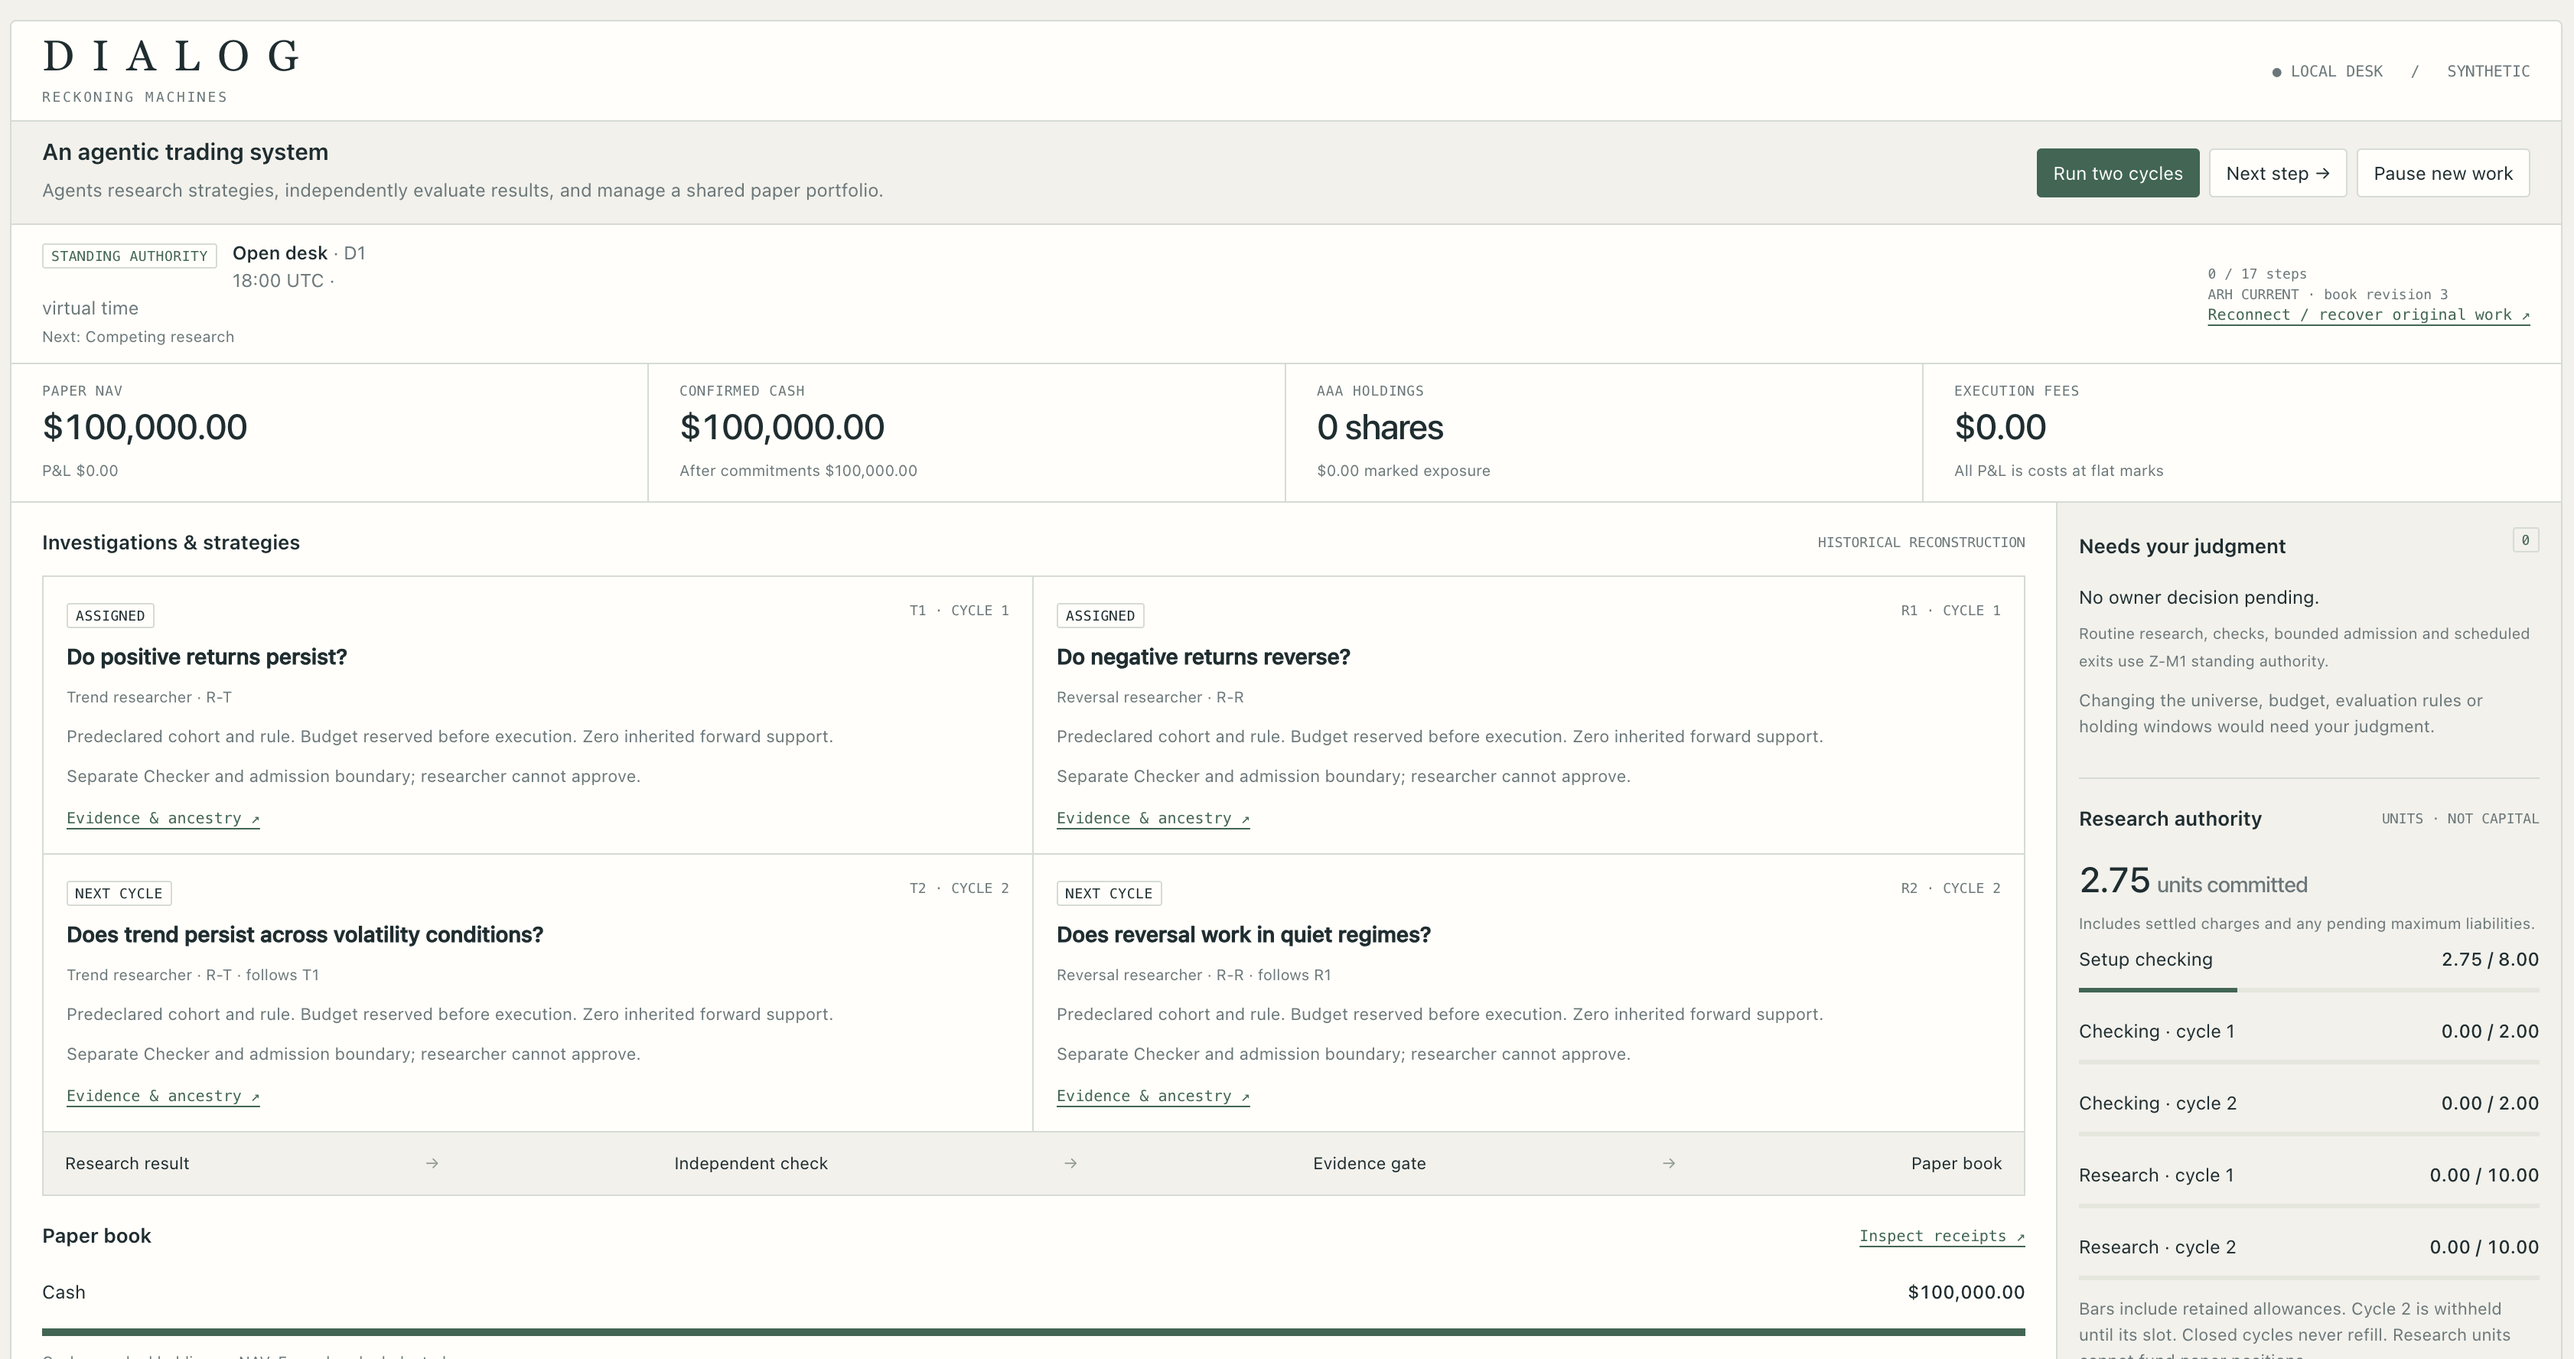
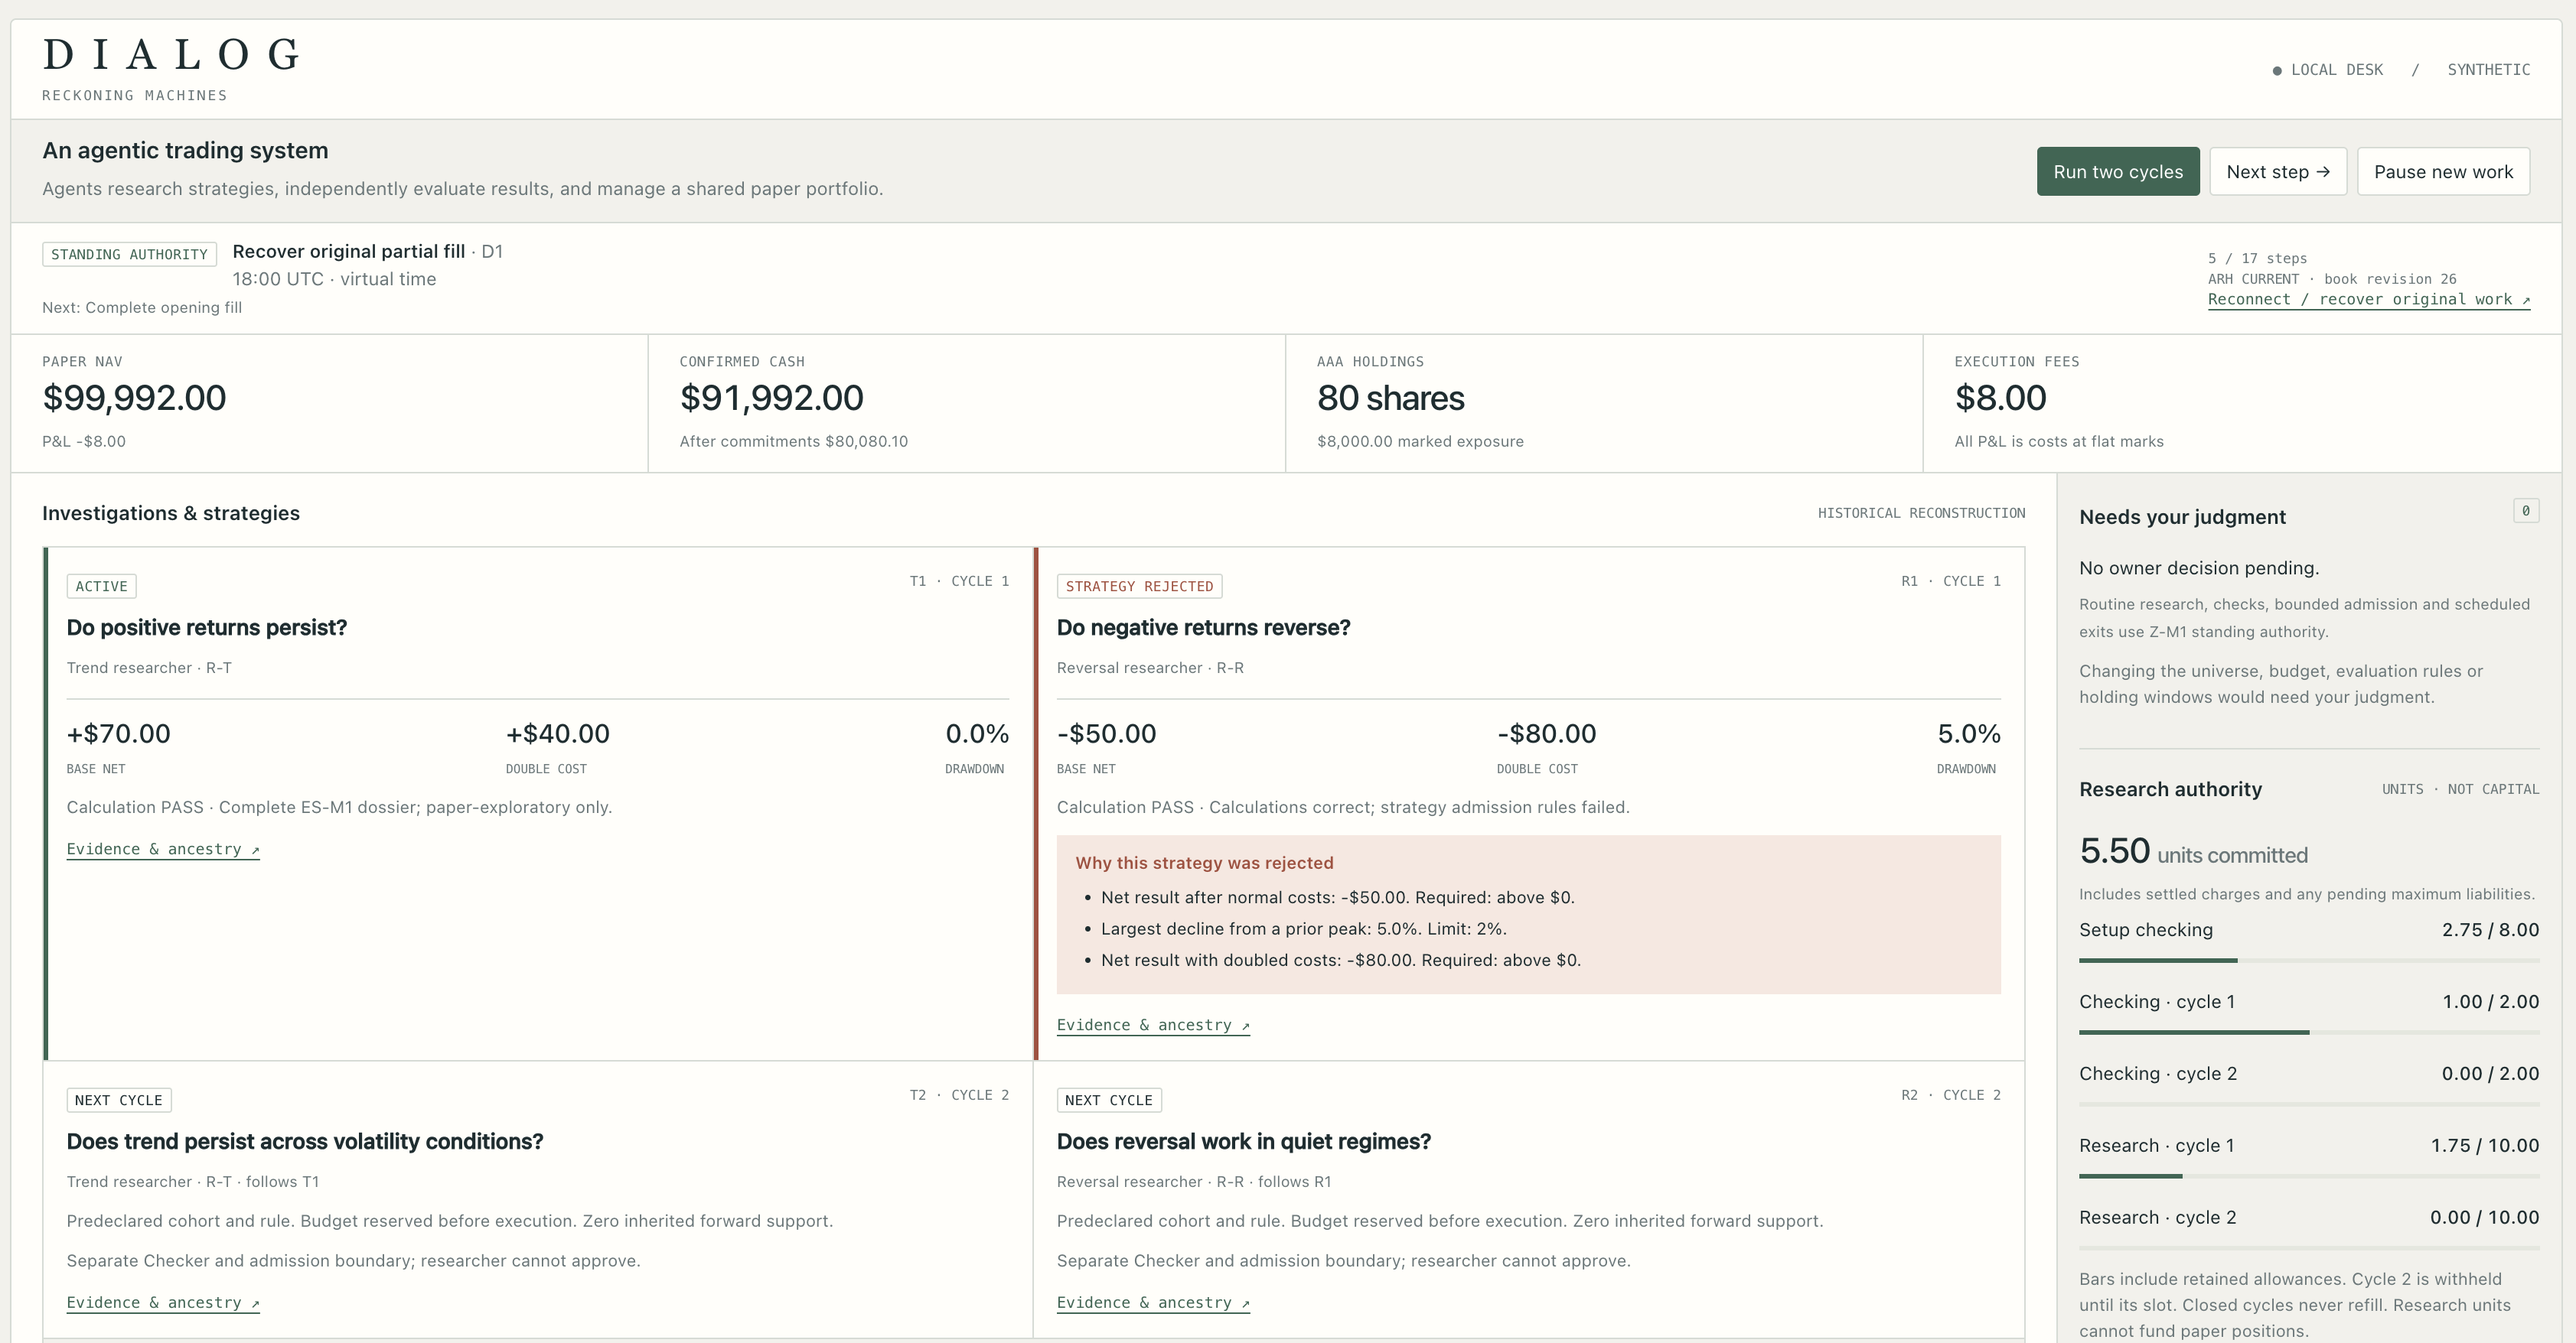
ARH card plate: Dialog mid-run, with an active and a rejected strategy

diff --git a/index.html b/index.html
@@ -98,7 +98,7 @@
                         <figure class="plate plate-arh">
                             <div class="plate-window">
                                 <a href="./dialog-workspace.png" target="_blank" rel="noopener" aria-label="Open the Dialog workspace screenshot at full size">
-                                    <img src="./dialog-workspace.png" width="3364" height="1776" alt="The Dialog workspace on a synthetic desk, showing paper NAV and cash, two competing research questions per cycle with their evidence links, the path from research result through independent check and evidence gate to the paper book, and the research units committed">
+                                    <img src="./dialog-workspace.png" width="3366" height="1756" alt="The Dialog workspace mid-run on a synthetic desk, showing paper NAV, cash, holdings and fees, one active strategy and one rejected with the reasons it failed admission, the next cycle's questions, and the research units committed">
                                 </a>
                             </div>
                             <figcaption class="plate-label"><span>Dialog</span><span>Paper book</span></figcaption>

diff --git a/styles.css b/styles.css
@@ -104,7 +104,7 @@ img { display: block; max-width: 100%; height: auto; }
 .plate-window { overflow: hidden; }
 .plate-window img { width: 100%; height: 100%; object-fit: cover; object-position: left top; }
 .plate-iris .plate-window { aspect-ratio: 3454 / 1540; }
-.plate-arh .plate-window { aspect-ratio: 3364 / 1500; }
+.plate-arh .plate-window { aspect-ratio: 3366 / 1500; }
 .plate-label { display: flex; justify-content: space-between; gap: 16px; padding: 10px 16px; background: var(--midnight-2); border-top: 1px solid var(--line-soft);
     font-family: var(--font-mono); font-size: 10.5px; letter-spacing: 0.18em; text-transform: uppercase; color: var(--ink-mute); }
 
